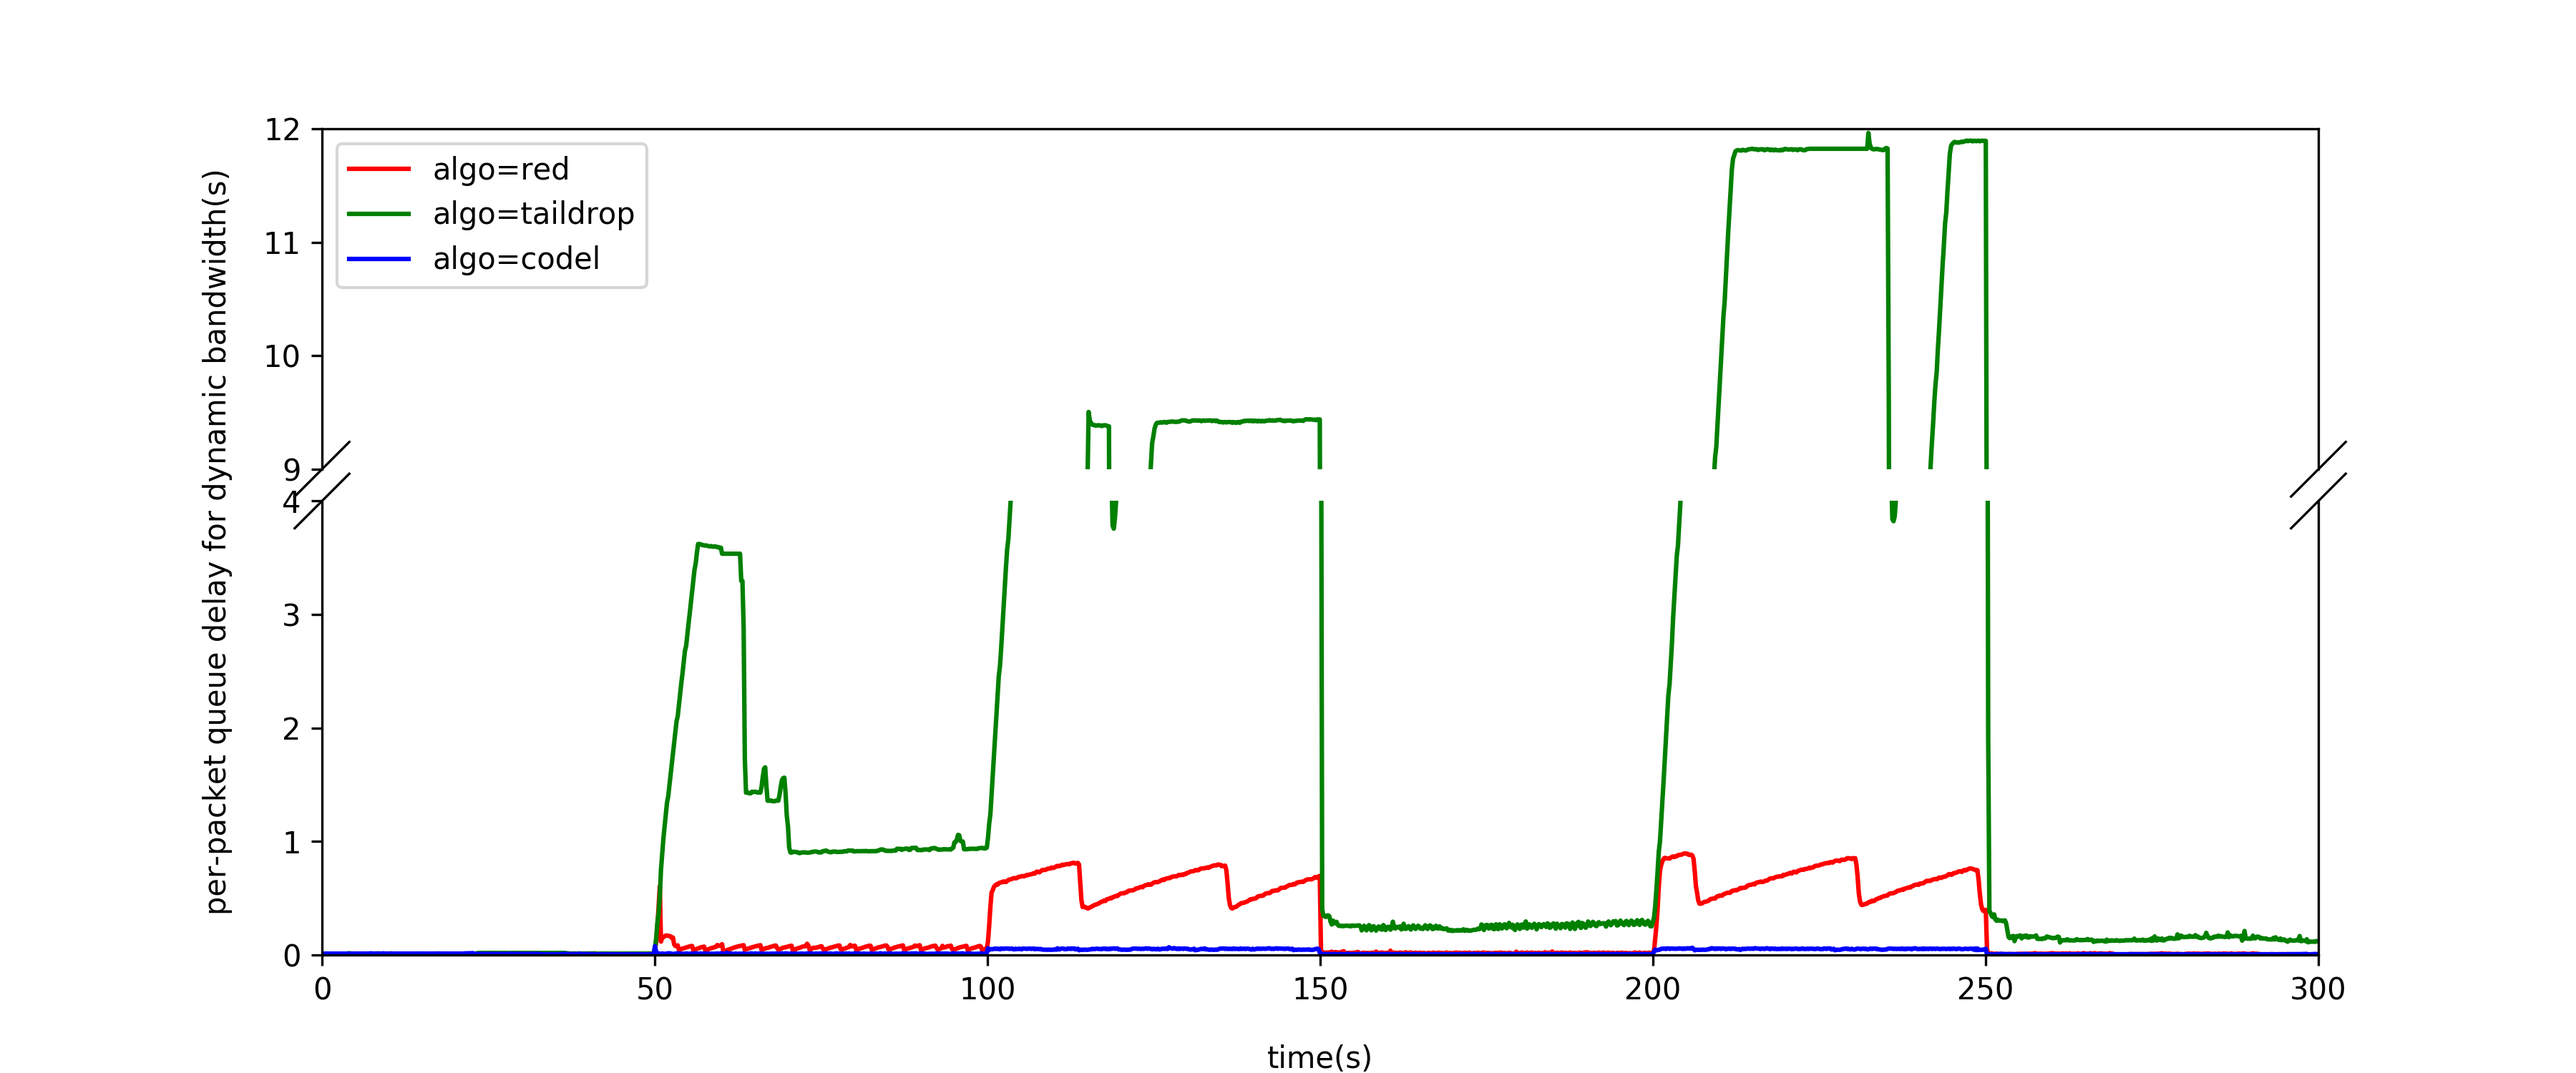
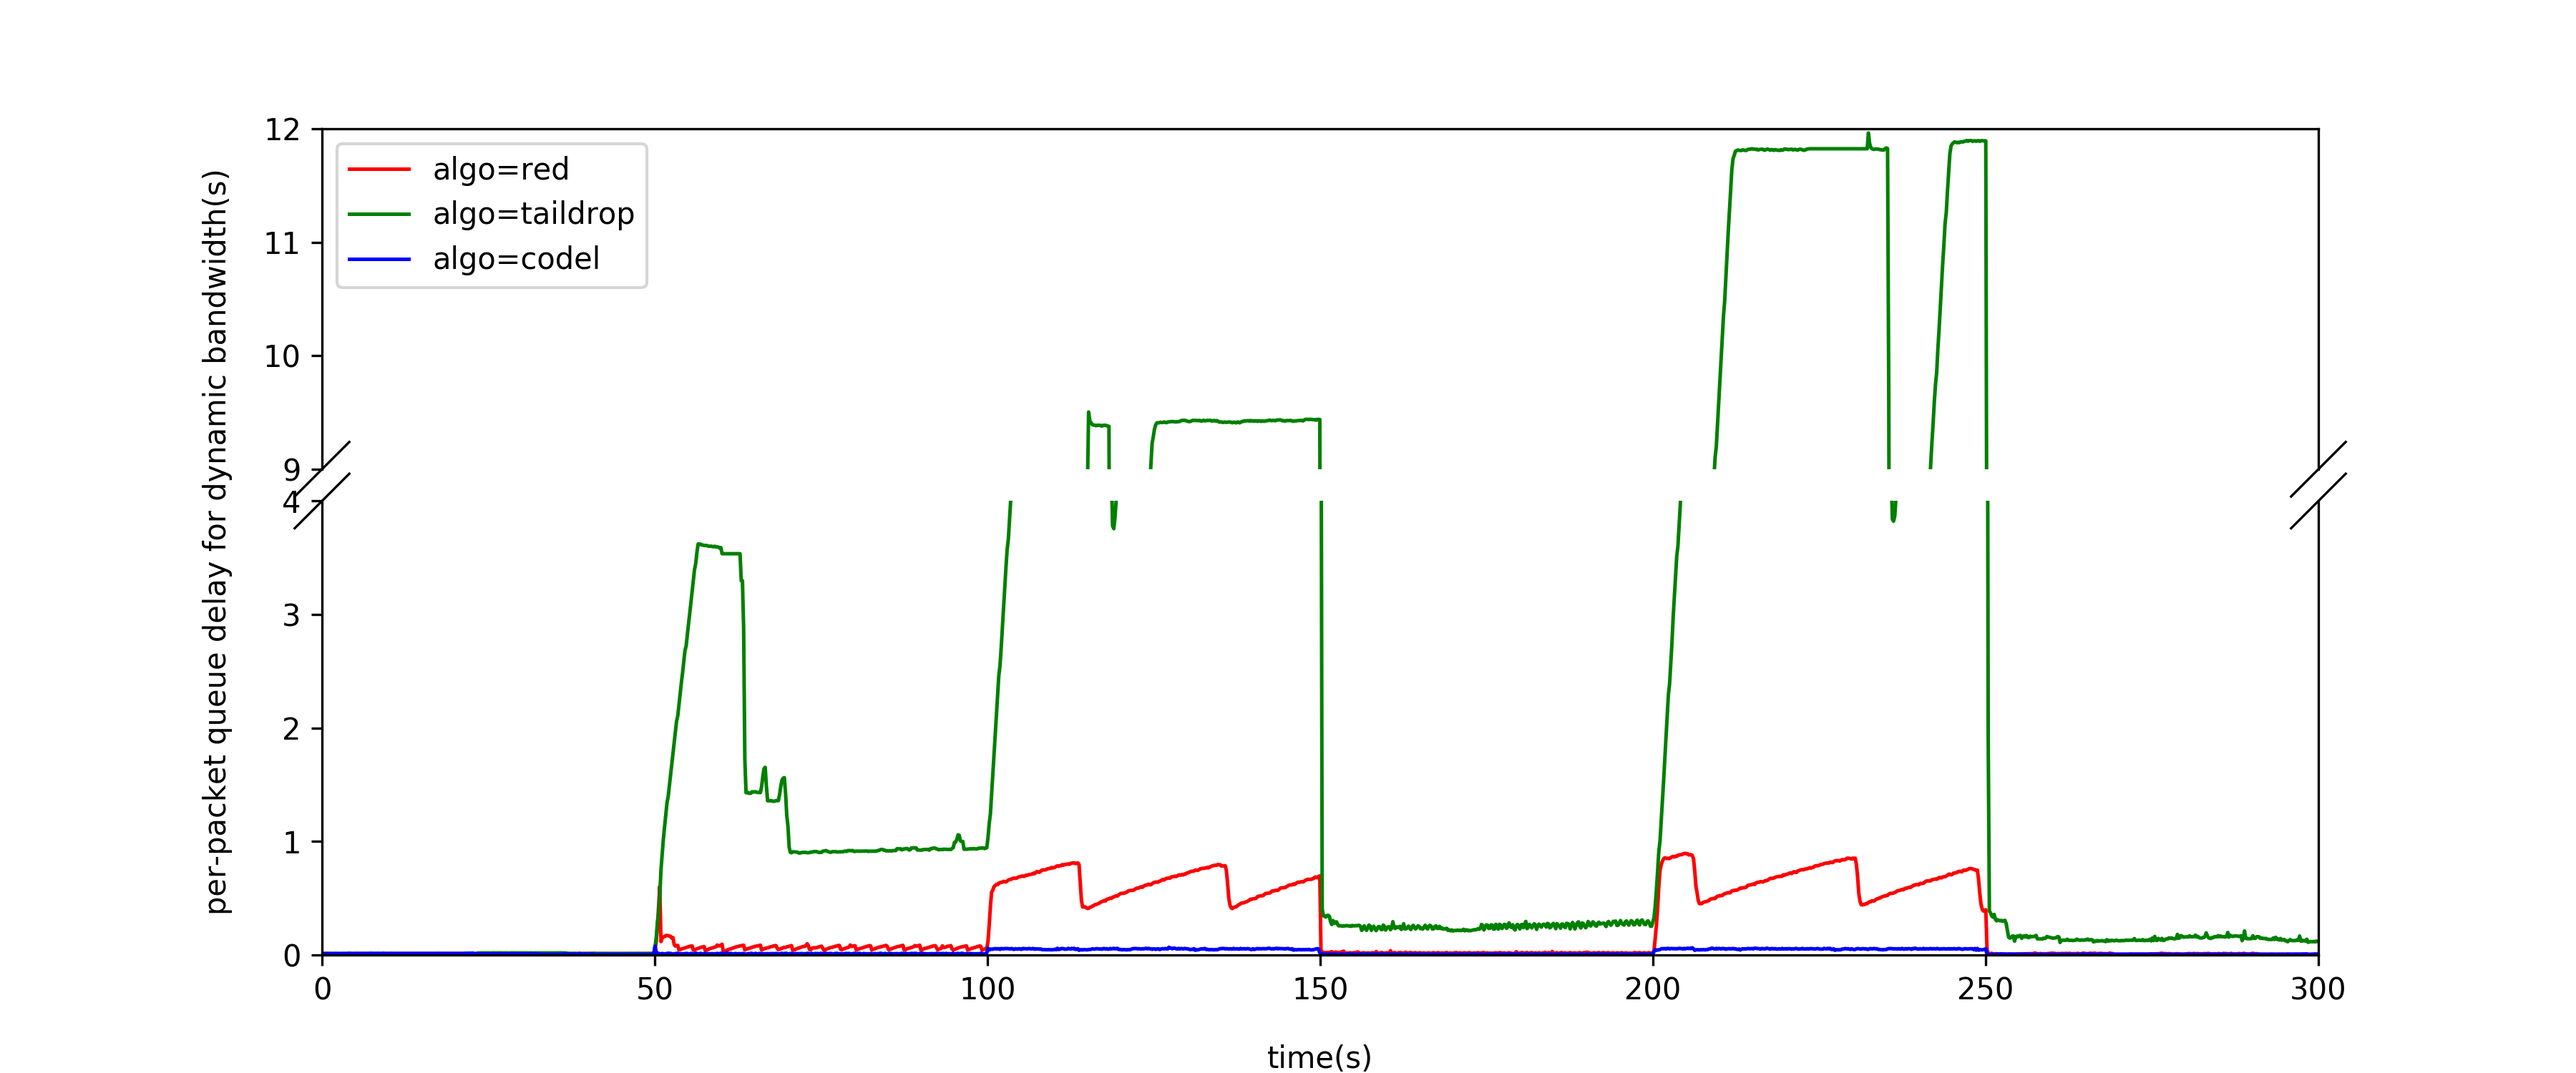
mod

Changed region(s): [[0.4978, 0.8587, 0.6533, 0.8893], [0.7778, 0.8587, 0.9022, 0.8893], [0.2489, 0.8587, 0.28, 0.8893]]

diff --git a/07/07-bufferbloat/print_rep.py b/07/07-bufferbloat/print_rep.py
@@ -25,16 +25,28 @@ def read_qlen(fname):
 
 def read_rtt(fname):
     return read_iperf_rtt(fname)
-    '''
-    fn = fname + '/rtt.txt'
-    with open(fn) as f:
-        list = [line.split(', ') for line in f]
-    list.pop()
-    x0 = float(list[0][0])
-    x = [float(line[0])-x0 for line in list]
-    y = [float(line[1].split('time=')[1].split(' ')[0]) for line in list]
-    return (x,y)
-    '''
+
+def atof(str):
+    sum = 0.0
+    isrem = 0
+    first = True
+    for i in str:
+        if i == ' ' and first:
+            continue
+        first = False
+        add = ord(i) - ord('0')
+        if add>=0 and add<=9:
+            if isrem==0:
+                sum = sum*10 + add
+            else:
+                sum += add/isrem
+                isrem *= 10
+        elif i=='.' and isrem==0:
+            isrem = 10.0
+        else:
+            break
+    return sum
+
 def read_bw(fname):
     fn = fname + '/iperf.txt'
     x = []
@@ -46,7 +58,7 @@ def read_bw(fname):
             if nline<7 or nline%2==1:
                 continue
             x.append(float(line.split('] ')[1].split('-')[0]))
-            y.append(float(line.split('Bytes  ')[1].split(' ')[0]))
+            y.append(atof(line.split('Bytes  ')[1]))
     return (x,y)
 
 def read_iperf_rtt(fname):
@@ -62,6 +74,7 @@ def read_iperf_rtt(fname):
             x.append(float(line.split('] ')[1].split('-')[0]))
             y.append(float(line.split('K/')[1].split(' us')[0])/1000000)
     return (x,y)
+
 
 maxqlen = [5,50,100,200]
 colors = ['r','g','b','y','m']
@@ -91,16 +104,14 @@ def draw_rep(yname):
 def draw_mit(namelist):
     y = []
     for i in namelist:
-        y.append(read_iperf_rtt(i))
+        y.append(read_rtt(i))
     
     plt.figure(figsize=(12,5), dpi=300)
     from brokenaxes import brokenaxes
     bax = brokenaxes(xlims = ((0,300),),ylims=((0, 4), (9, 12)), hspace=.08, despine=False)
     for i in range(len(namelist)):   
-        bax.plot(y[i][0],y[i][1],label='algo=%s'%namelist[i],linewidth=1.5,color=colors[i])
+        bax.plot(y[i][0],y[i][1],label='algo=%s'%namelist[i],linewidth=1.2,color=colors[i])
 
-    #plt.xlim(0,300)
-    #plt.ylim(1,200)
     #bax.grid()
     bax.set_xlabel('time(s)')
     bax.set_ylabel('per-packet queue delay for dynamic bandwidth(s)')
@@ -114,7 +125,5 @@ draw_rep('qlen')
 draw_rep('rtt')
 
 
-'''
 algo = ['red','taildrop','codel']
 draw_mit(algo)
-'''

diff --git a/07/07-bufferbloat/test.py b/07/07-bufferbloat/test.py
@@ -1,4 +1,24 @@
-x = ['123,34','345,67']
 
-y = x[0].split(',3')[1]
-print(y)
+def atof(str):
+    sum = 0.0
+    isrem = 0
+    first = True
+    for i in str:
+        if i == ' ' and first:
+            continue
+        first = False
+        add = ord(i) - ord('0')
+        if add>=0 and add<=9:
+            if isrem==0:
+                sum = sum*10 + add
+            else:
+                sum += add/isrem
+                isrem *= 10
+        elif i=='.' and isrem==0:
+            isrem = 10.0
+        else:
+            break
+    return sum
+str = '[  3] 0.00-0.18 sec  4.38 MBytes   204 Mbits/sec  35/0          0      395K/10881 us'
+s1 = atof(str.split('Bytes  ')[1])
+print(s1)
